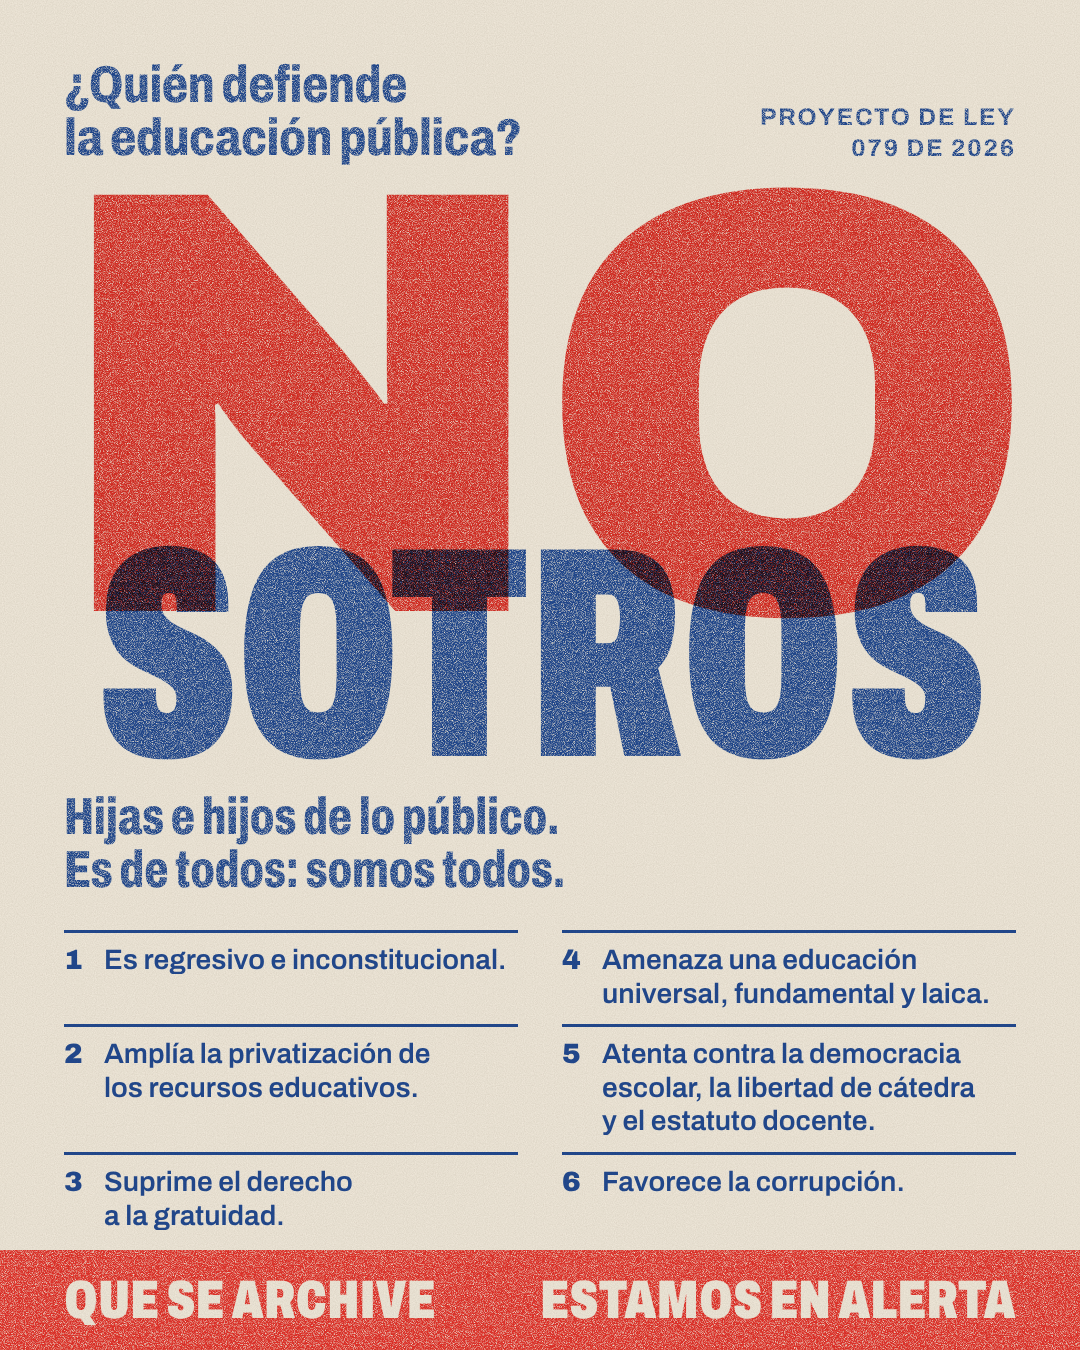
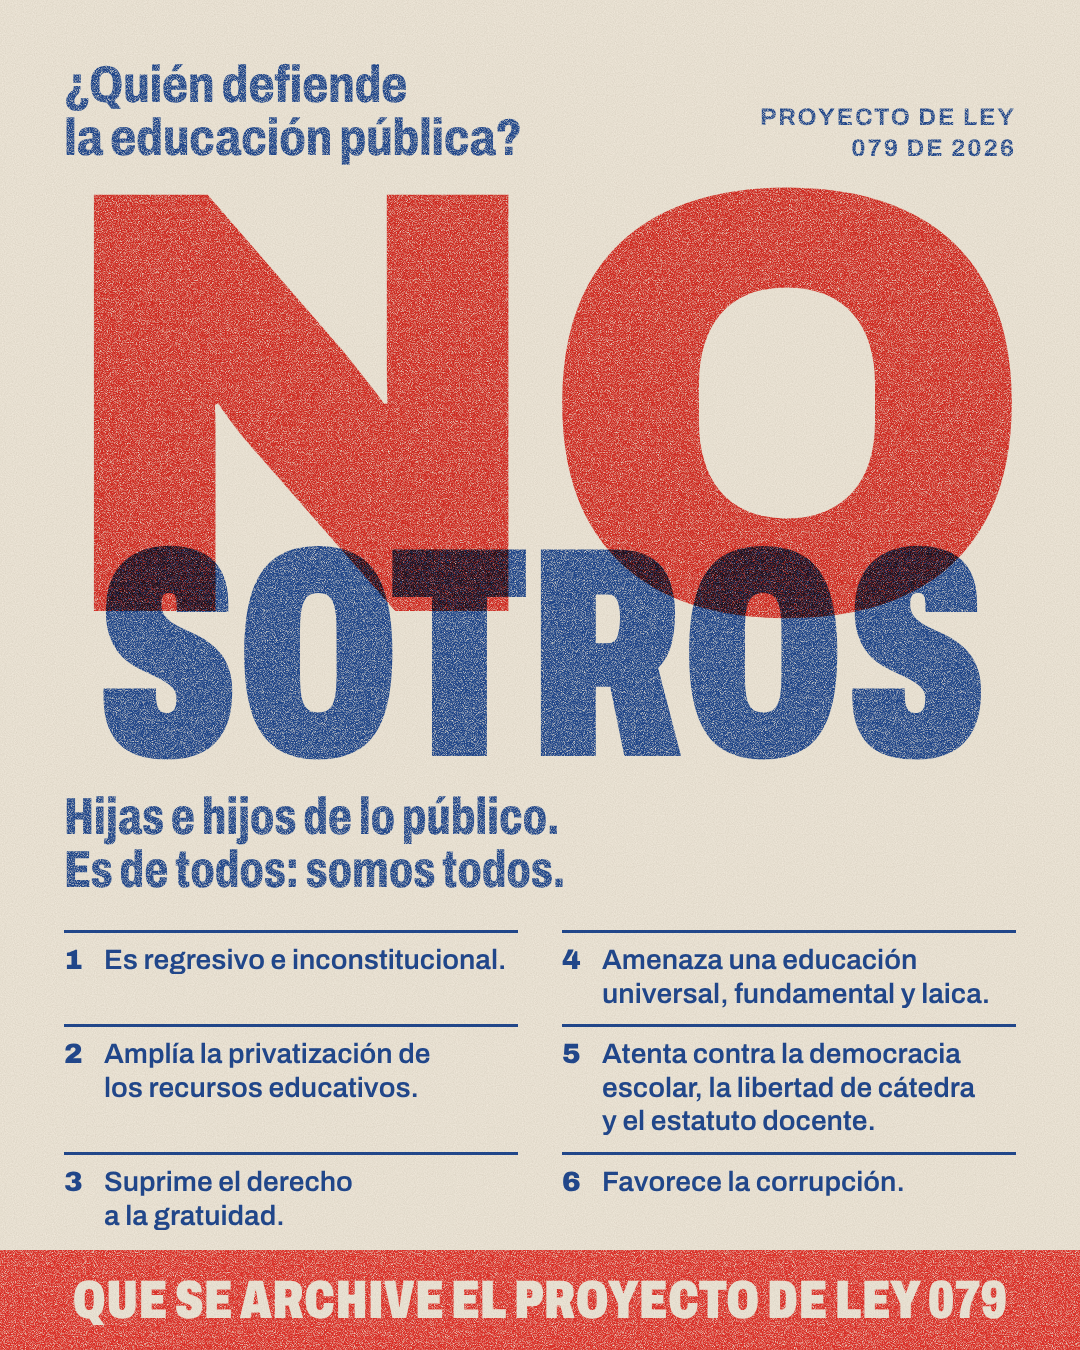
Variante NOsotros: el pie dice «Que se archive el Proyecto de Ley 079»
Claude-Session: https://claude.ai/code/session_0157Qa5e6iRtCtsbXHc6oRBj

Changed region(s): [[0.0611, 0.9333, 0.9472, 0.9956]]

diff --git a/pl079/v2-nosotros.html b/pl079/v2-nosotros.html
@@ -61,7 +61,7 @@
 
   .foot{
     position:absolute;left:0;right:0;bottom:0;height:100px;background:var(--red);
-    display:flex;align-items:center;justify-content:space-between;padding:0 64px;
+    display:flex;align-items:center;justify-content:center;padding:0 64px;
     font-weight:900;font-stretch:72%;font-size:54px;text-transform:uppercase;letter-spacing:.005em;color:var(--paper);
   }
 </style>
@@ -91,7 +91,7 @@
     <p><b>6</b><span>Favorece la corrupción.</span></p>
   </div>
 
-  <div class="foot" style="filter:url(#riso)"><span>Que se archive</span><span>Estamos en alerta</span></div>
+  <div class="foot" style="filter:url(#riso)"><span>Que se archive el Proyecto de Ley 079</span></div>
 </div>
 </body>
 </html>
